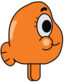
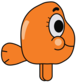
docs(design): Darwin profile finished, side-on tail fin and mouth to the snout, profile-only scenes (NAK-353)

diff --git a/docs/design/darwin/build.py b/docs/design/darwin/build.py
@@ -122,6 +122,13 @@ FIN = [(56, 309), (40, 306), (26, 310), (18, 317), (6, 326), (-3, 340), (-4, 360
        (124, 462), (130, 457), (134, 452)]
 FIN_CURLS = [[(56, 300), (58, 322), (68, 337)], [(113, 431), (122, 443), (136, 453)]]
 CENTRE, HALF_WIDTH, BACK = (385, 240), 335, 54
+# Profile tail fin (deduced): the same rounded paddle, seen side-on, so it
+# leaves the back of the body along its axis instead of sitting beside it. Its
+# size is the swimming fin's (115 x 105 in the 680 space, body 460 wide) carried
+# to this space (x 670 / 460). It is drawn under the body, whose line stays
+# whole across the root; the first and last two points are hidden there.
+FIN_SIDE = [(110, 396), (72, 356), (22, 326), (-36, 314), (-78, 340), (-90, 394), (-80, 446), (-42, 476),
+            (16, 472), (76, 450), (122, 432)]
 # Turned views are deduced, not traced (no reference shows them): the body is
 # taken as 0.6 times as deep as it is wide, turned about its vertical axis.
 DEPTH = 0.6
@@ -171,19 +178,30 @@ def front(small=False, view="front"):
     s = 'stroke="%s" stroke-width="%d" stroke-linecap="round" stroke-linejoin="round"' % (INK, STROKE)
     leg = '<path d="M%.1f 455v104a35 35 0 0 0 70 0v-104z" fill="%s" %s/>'
     fin = [(xs(x), y) for x, y in FIN]
+    body = '<path d="%s" fill="%s" %s/>' % (outline(BODY_PTS, CENTRE, 0, 12, xs), BODY, s)
+    shine = ('<path transform="translate(%.1f 0)" d="M112 146c-30 36-36 96-24 140 6 4 14 2 16-6 4-50 18-90 36-122 0-10-18-18-28-12z"'
+             ' fill="%s"/>' % (xs(112) - 112, LIGHT))
     # Far leg first: the near one overlaps it when the body turns. In profile
     # both legs are on the view axis: the far one only shows behind the near.
     legs = (xs(CENTRE[0]) - 57, xs(CENTRE[0]) - 35) if view == "profile" else (xs(470), xs(230))
-    base = [
-        leg % (legs[0], BODY, s), leg % (legs[1], BODY, s),
-        '<path d="%s" fill="%s" %s/>' % (outline(BODY_PTS, CENTRE, 0, 12, xs), BODY, s),
-        '<path d="M%.1f %.1f%s" fill="%s" %s/>' % (fin[0] + ("".join(
-            "C" + " ".join("%.1f %.1f" % p for p in fin[i:i + 3]) for i in range(1, len(fin), 3)), BODY, s)),
-        '<path transform="translate(%.1f 0)" d="M112 146c-30 36-36 96-24 140 6 4 14 2 16-6 4-50 18-90 36-122 0-10-18-18-28-12z"'
-        ' fill="%s"/>' % (xs(112) - 112, LIGHT),
-    ]
-    curls = "".join("M%.1f %dQ%.1f %d %.1f %d" % tuple(v for x, y in c for v in (xs(x), y)) for c in FIN_CURLS)
-    detail = ['<path d="%sM3 387l32-6M26 452l32-21" fill="none" %s/>' % (curls, s)]
+    if view == "profile":
+        base = [
+            leg % (legs[0], BODY, s), leg % (legs[1], BODY, s),
+            '<path d="%s" fill="%s" %s/>' % (smooth(FIN_SIDE), BODY, s),
+            body, shine,
+        ]
+        # Two fin strokes, as on the references, pointing at the root.
+        detail = ['<path d="M-86 372l36 6M-66 458l30-22" fill="none" %s/>' % s]
+    else:
+        base = [
+            leg % (legs[0], BODY, s), leg % (legs[1], BODY, s),
+            body,
+            '<path d="M%.1f %.1f%s" fill="%s" %s/>' % (fin[0] + ("".join(
+                "C" + " ".join("%.1f %.1f" % p for p in fin[i:i + 3]) for i in range(1, len(fin), 3)), BODY, s)),
+            shine,
+        ]
+        curls = "".join("M%.1f %dQ%.1f %d %.1f %d" % tuple(v for x, y in c for v in (xs(x), y)) for c in FIN_CURLS)
+        detail = ['<path d="%sM3 387l32-6M26 452l32-21" fill="none" %s/>' % (curls, s)]
     thin = s.replace('"7"', '"5"')
     if view == "front":
         detail += [
@@ -225,9 +243,10 @@ def front(small=False, view="front"):
             '<ellipse cx="%.1f" cy="297" rx="%.1f" ry="30" fill="%s"/>' % (face(492)[0] + far, 30 * max(rk, 0.7), LIGHT),
         ]
     else:
-        # Profile: one eye, one cheek, the mouth ends on the outline. The eye
-        # keeps its height and takes the body's own narrowing (DEPTH).
-        edge = xs(712)
+        # Profile: one eye, one cheek. The eye keeps its height and takes the
+        # body's own narrowing (DEPTH). The mouth is the near half of the front
+        # smile: it leaves the corner under the cheek and runs out to the body
+        # line at the snout, where the front smile is lowest (y 336).
         at = radial(BODY_PTS, CENTRE, 0, 12, xs)
         erx = 96 * DEPTH
         # The eye sits as far forward as the body line allows over its whole
@@ -243,7 +262,8 @@ def front(small=False, view="front"):
             '<path d="%s" fill="none" %s/>' % (lashes(ex, 184.5, erx, 90, (215, 195, 178)), thin),
             '<path d="%s" fill="%s"/>' % (blob(brow), INK),
             cheek(ex + 10, 314, 50, 203, 118, 1),
-            '<path d="M%.1f 322Q%.1f 340 %.1f 312" fill="none" %s/>' % (edge - 78, edge - 46, edge - 18, s),
+            '<path d="M%.1f 318Q%.1f 344 %.1f 336" fill="none" %s/>'
+            % (ex + 58, (ex + 58 + right_edge(at, 336)) / 2 - 8, right_edge(at, 336), s),
             '<circle cx="%.1f" cy="307" r="26" fill="%s"/>' % (ex + 12, LIGHT),
         ]
     return "\n".join(base if small else base + detail)
@@ -319,8 +339,9 @@ THREE_QUARTER_25 = "".join([px(7, 15, 2, 5, BODY, 1), px(14, 15, 2, 5, BODY, 1),
                             px(8, 3, 5, 6, WHITE, 2.5), px(14, 3, 4, 6, WHITE, 2),
                             px(10, 5, 3, 3, INK, 1), px(15, 5, 2, 3, INK),
                             px(11, 10, 2, 2, LIGHT, 1), px(15, 10, 1, 2, LIGHT)])
-PROFILE_25 = "".join([px(7, 15, 2, 5, BODY, 1), px(8, 15, 2, 5, BODY, 1),
-                      px(9, 3, 4, 6, WHITE, 2), px(11, 5, 2, 3, INK), px(11, 10, 2, 2, LIGHT, 1)])
+# Profile: its box starts 89 units further left for the fin, 3 px here.
+PROFILE_25 = "".join([px(10, 15, 2, 5, BODY, 1), px(11, 15, 2, 5, BODY, 1),
+                      px(12, 3, 4, 6, WHITE, 2), px(14, 5, 2, 3, INK), px(14, 10, 2, 2, LIGHT, 1)])
 # One pixel of body is kept between the two eyes so they do not merge; the
 # pupils are square so that they stay solid ink on whole pixels.
 SWIM_25 = "".join([px(7, 5, 5, 5, WHITE, 2.5), px(13, 3, 5, 5, WHITE, 2.5),
@@ -333,11 +354,11 @@ if __name__ == "__main__":
     open(out + "/darwin-front.svg", "w").write(
         '<svg xmlns="http://www.w3.org/2000/svg" viewBox="-12 -8 745 612" width="745" height="612">\n'
         '<title>Darwin, front view, neutral pose</title>\n%s\n</svg>\n' % front())
-    for name, width in (("three-quarter", 660), ("profile", 500)):
+    for name, left, width in (("three-quarter", -12, 660), ("profile", -101, 566)):
         open(out + "/darwin-%s.svg" % name, "w").write(
-            '<svg xmlns="http://www.w3.org/2000/svg" viewBox="-12 -8 %d 612" width="%d" height="612">\n'
+            '<svg xmlns="http://www.w3.org/2000/svg" viewBox="%d -8 %d 612" width="%d" height="612">\n'
             '<title>Darwin, %s view, neutral pose (deduced from the front view)</title>\n%s\n</svg>\n'
-            % (width, width, name, front(view=name)))
+            % (left, width, width, name, front(view=name)))
     open(out + "/darwin-swim.svg", "w").write(
         '<svg xmlns="http://www.w3.org/2000/svg" viewBox="0 0 680 480" width="680" height="480">\n'
         '<title>Darwin, side view, swimming</title>\n%s\n</svg>\n' % swim())
@@ -345,5 +366,5 @@ if __name__ == "__main__":
     open(out + "/darwin-three-quarter-25.svg", "w").write(
         optical("three-quarter view", 22, 21, (-12, -8, 745), front(True, "three-quarter"), THREE_QUARTER_25))
     open(out + "/darwin-profile-25.svg", "w").write(
-        optical("profile view", 17, 21, (-12, -8, 745), front(True, "profile"), PROFILE_25))
+        optical("profile view", 19, 21, (-101, -8, 745), front(True, "profile"), PROFILE_25))
     open(out + "/darwin-swim-25.svg", "w").write(optical("swimming view", 25, 18, (0, 0, 680), swim(True), SWIM_25))

diff --git a/docs/design/darwin/README.md b/docs/design/darwin/README.md
@@ -7,26 +7,23 @@ approved, and not used by the widget.
 |---|---|---|
 | `darwin-front.svg` | front | 729 px wide, same as `components/assets/darwin/body.png`; the viewBox adds 12 px on the left for the tail fin, 4 px on the right, 8 px on top |
 | `darwin-swim.svg` | swimming, turned | 680 x 480 |
-| `darwin-three-quarter.svg`, `darwin-profile.svg` | three-quarter and profile, deduced from the front view | the front space, 660 and 500 wide |
-| `darwin-front-25.svg`, `darwin-three-quarter-25.svg`, `darwin-profile-25.svg`, `darwin-swim-25.svg` | optical variants for the real widget size | 25 x 21, 22 x 21, 17 x 21 and 25 x 18, one unit = one pixel |
+| `darwin-three-quarter.svg`, `darwin-profile.svg` | three-quarter and profile, deduced from the front view | the front space, 660 and 566 wide (the profile box starts 89 units further left for its tail fin) |
+| `darwin-front-25.svg`, `darwin-three-quarter-25.svg`, `darwin-profile-25.svg`, `darwin-swim-25.svg` | optical variants for the real widget size | 25 x 21, 22 x 21, 19 x 21 and 25 x 18, one unit = one pixel |
 | `*@1x.png` | the optical variants rendered 1:1 (25 px wide, `unit` 0.034 in `Goldfish.qml`) | |
-| `*@4x.png` | four times the real size: front and swimming 100 px wide, three-quarter 89, profile 67 (one scale, 100 / 745, for the three views of the front space) | |
-| `scene-dark.png`, `scene-light.png`, `scene-wallpaper.png` | the four views at real size in the real desktop bowl (`scripts/preview/render.sh desk`, `desk-light`, and `desk` with a made-up warm wallpaper palette in the preview `Theme`), composited at +328+356 (front), +360+356 (three-quarter), +389+356 (profile) and +413+357 (swimming), with a 6x unsmoothed zoom below | |
+| `*@4x.png` | four times the real size: front and swimming 100 px wide, three-quarter 89, profile 76 (one scale, 100 / 745, for the three views of the front space) | |
+| `scene-dark.png`, `scene-light.png`, `scene-wallpaper.png` | the profile alone (the only view kept, owner 2026-10-10) at real size in the real desktop bowl (`scripts/preview/render.sh desk`, `desk-light`, and `desk` with a made-up warm wallpaper palette in the preview `Theme`), composited at +368+356, with a 6x unsmoothed zoom below | |
 
 Rebuild:
 
 ```sh
 python3 build.py .
-for v in front:100 three-quarter:89 profile:67 swim:100; do
+for v in front:100 three-quarter:89 profile:76 swim:100; do
   magick -background none darwin-${v%:*}-25.svg darwin-${v%:*}@1x.png
   magick -background none darwin-${v%:*}.svg -resize ${v#*:}x darwin-${v%:*}@4x.png
 done
 # scenes: <mode> is desk, desk-light, or desk with the wallpaper palette below
 ../../../scripts/preview/render.sh <mode> top.png
-magick top.png darwin-front@1x.png -geometry +328+356 -composite \
-  darwin-three-quarter@1x.png -geometry +360+356 -composite \
-  darwin-profile@1x.png -geometry +389+356 -composite \
-  darwin-swim@1x.png -geometry +413+357 -composite top.png
+magick top.png darwin-profile@1x.png -geometry +368+356 -composite top.png
 magick top.png \( top.png -crop 130x60+312+336 +repage -filter point -resize 600% \) \
   -append -strip scene-<name>.png
 ```
@@ -201,6 +198,18 @@ pupils, cheeks and both brows sit on the reference ink.
   of body on a horizontal line). Where the body line slants, the gap measured
   across it is smaller: 9.0 and 9.5 px between centres, that is 5.5 to 6 px
   of visible body (measured by the UI Designer), not a full stroke width.
-- Not done: the 0.6 depth ratio is an assumption (Q129); the profile keeps the front
-  tail fin seen flat (a real profile would show it edge-on or fanned, no
-  reference says which).
+- **Profile only** (owner, 2026-10-10: Darwin is shown in profile only). The
+  profile is the reference view; front, three-quarter and swimming stay as the
+  source it is built from and are no longer worked on. Its tail fin and mouth
+  are now its own, both deduced: the fin is the rounded paddle seen side-on
+  (`FIN_SIDE`, sized from the swimming fin, drawn under the body so the body
+  line stays whole, two short strokes); the mouth is the near half of the
+  smile, from the corner under the cheek out to the body line at the snout.
+  Outline, colours, proportions, eye, cheek and legs are unchanged. The 25 px
+  variant is 19 x 21 (everything shifted 3 px right for the fin).
+- Profile-only scenes, contrast on all 7800 backdrop pixels of the 130 x 60
+  zone: body 6.25 to 7.18:1 (dark), 6.63 to 7.44:1 (light), 6.23 to 7.19:1
+  (wallpaper theme); eye white 13.09, 13.89 and 13.04:1 at worst; outline
+  1.12 to 1.19:1 at worst (invisible, the body carries the shape).
+- Not done: the 0.6 depth ratio is an assumption (Q129); the side-on fin has
+  no reference; the fin's top edge keeps a slight wave at full size.
